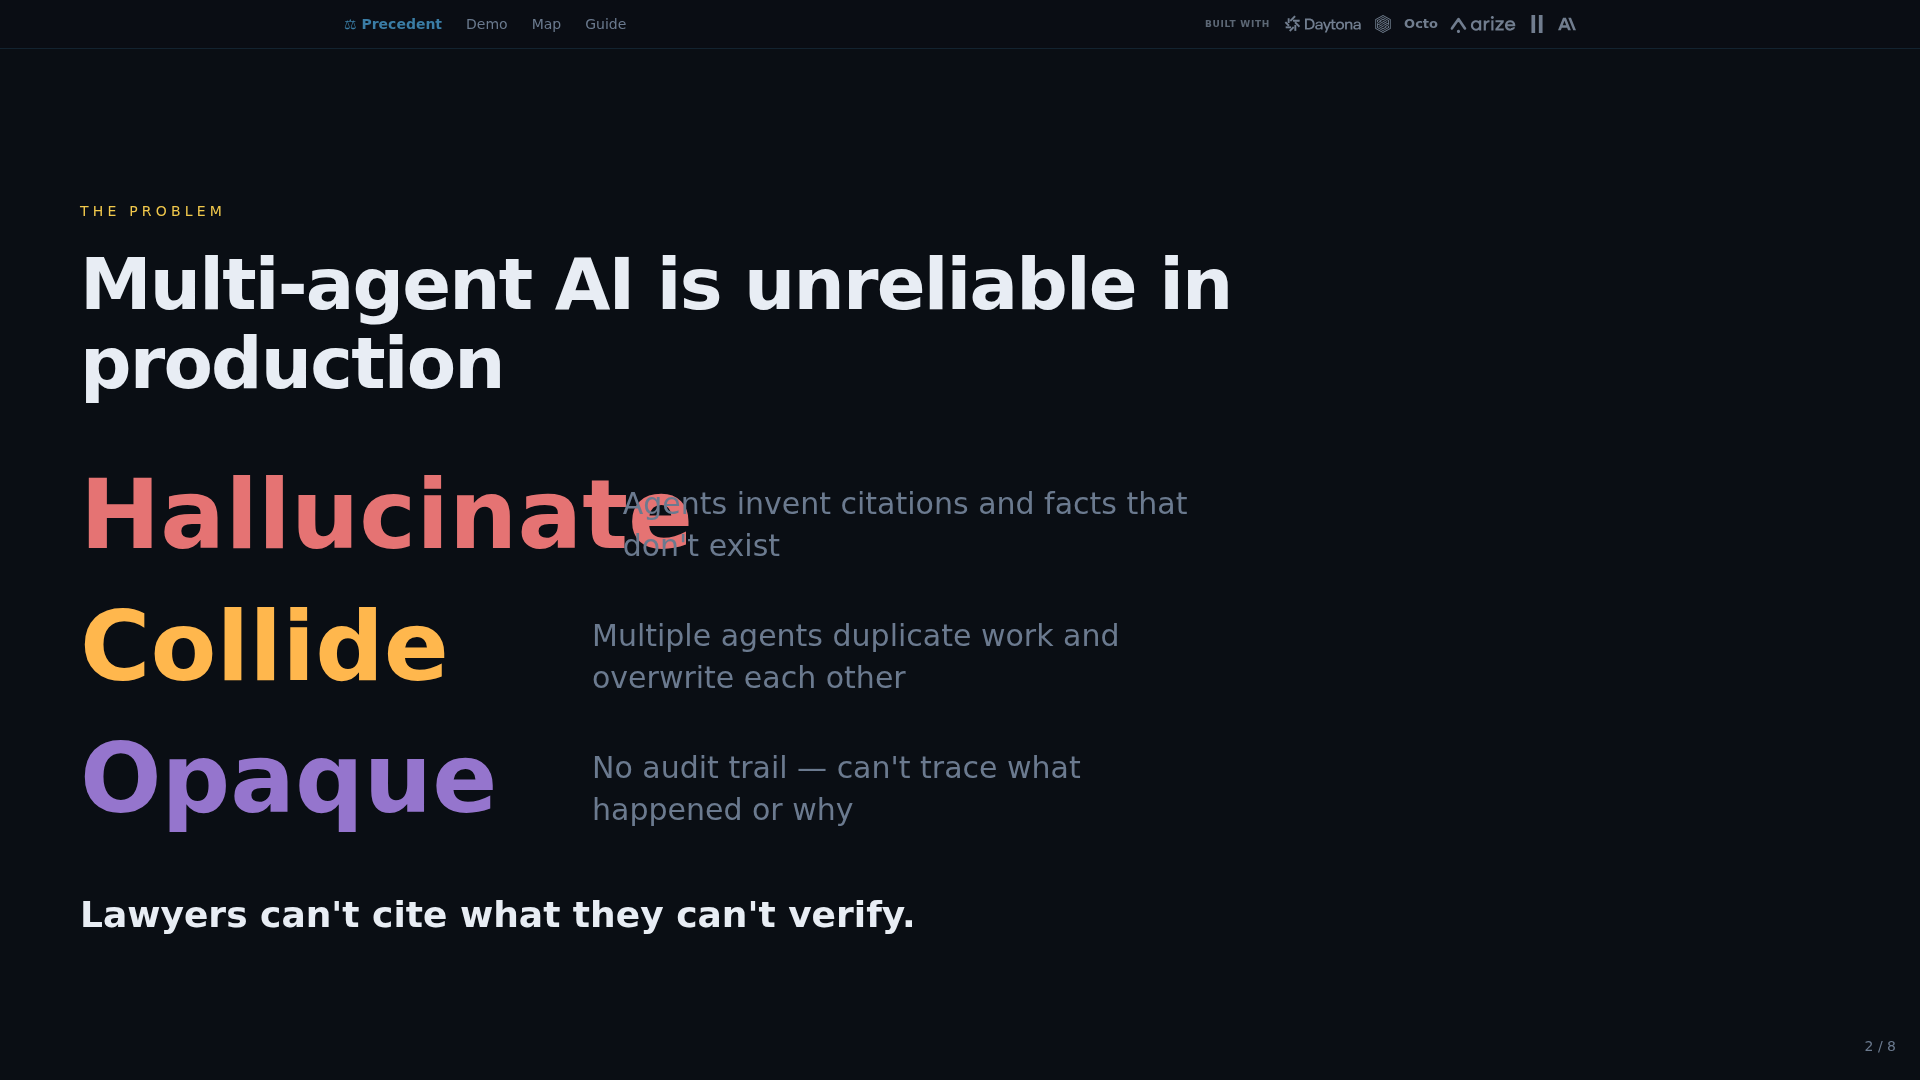
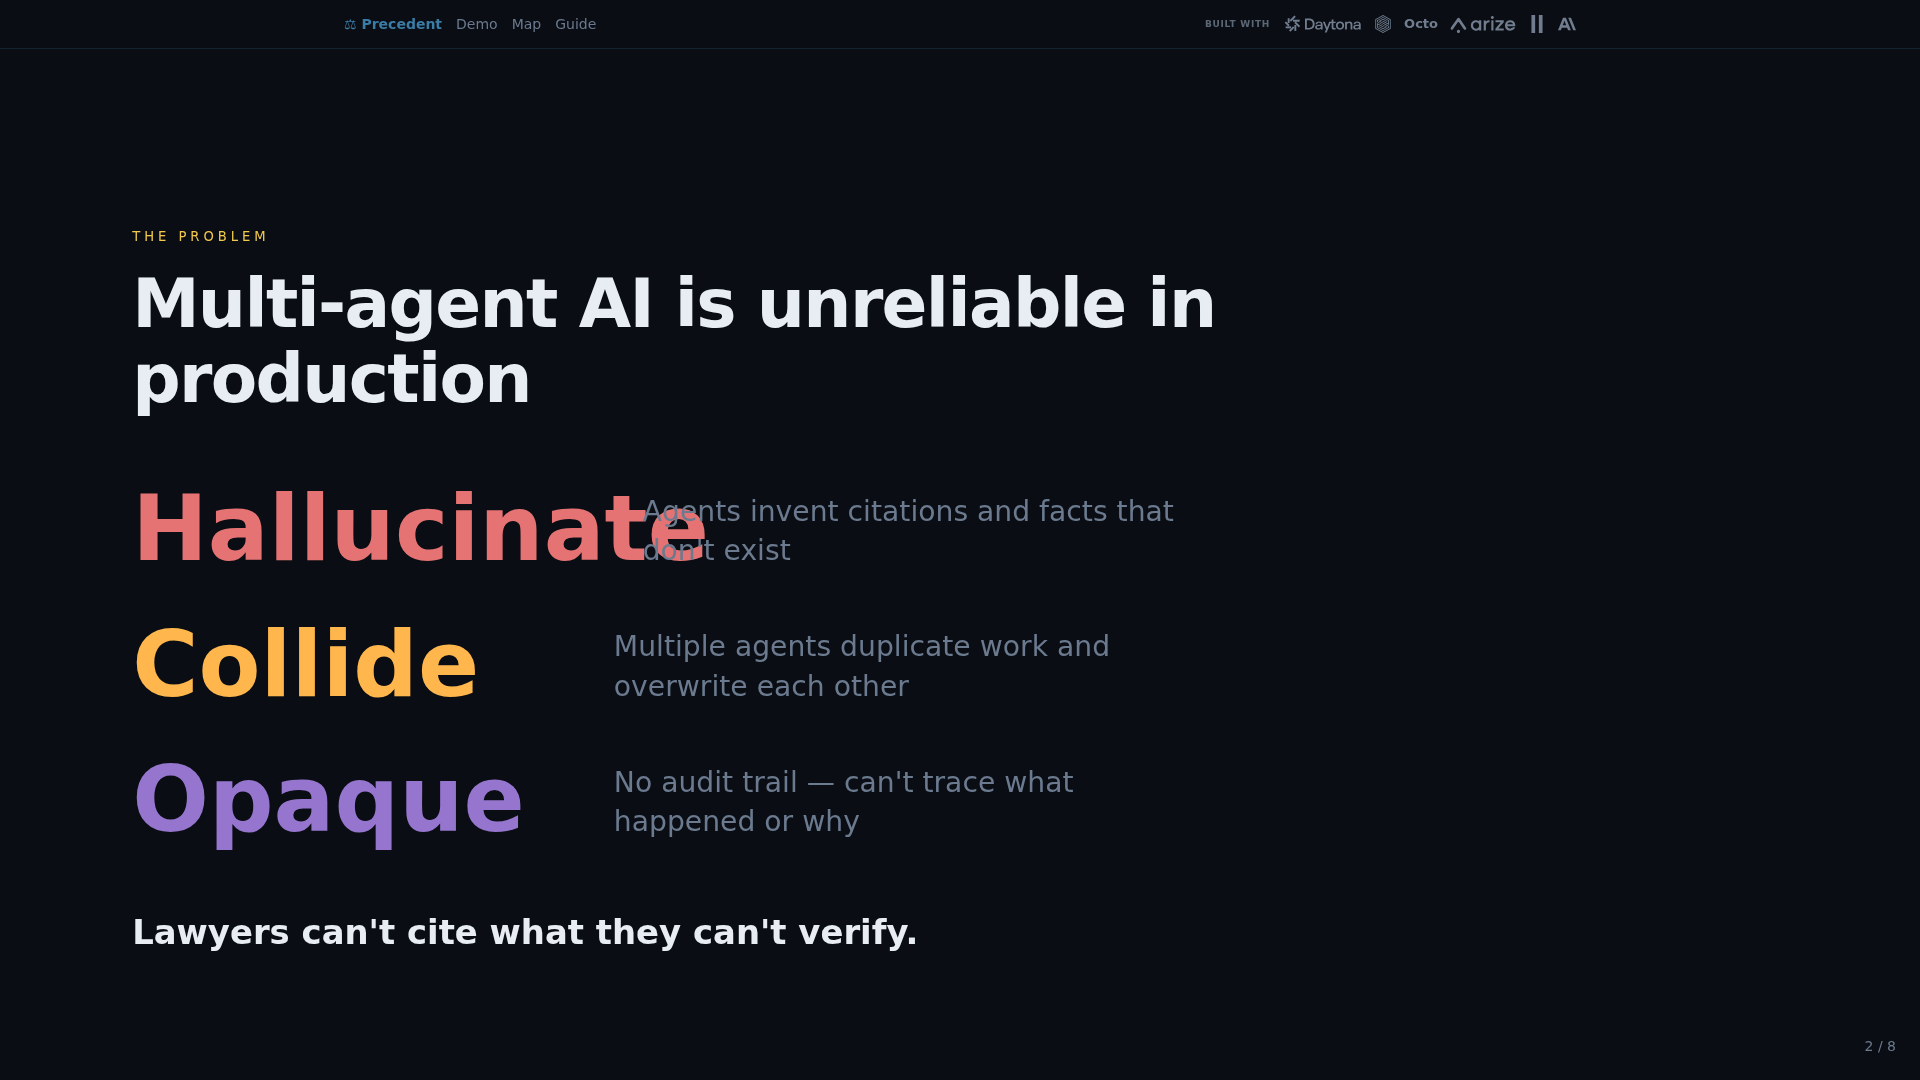
slides: fixed 1920x1080 stage scaled to fit viewport; visible site + GitHub links; refresh shots

diff --git a/static/slides.html b/static/slides.html
@@ -33,7 +33,7 @@ body {
 }
 
 .screenshot {
-  max-height: 70vh;
+  max-height: 756px;
   object-fit: contain;
   object-position: center;
   border-radius: 12px;
@@ -84,6 +84,14 @@ body {
 .fade-in {
   animation: fadeIn 0.6s ease-out forwards;
 }
+
+/* fixed 16:9 stage, scaled to fit (letterboxed) */
+html,body{height:100%;margin:0}
+#deck{position:fixed;left:0;top:0;width:1920px;height:1080px;transform-origin:0 0}
+#deck .slide{width:1920px;height:1080px;min-height:0!important;box-sizing:border-box;overflow:visible}
+#deck .slide>.min-h-screen{min-height:0!important;height:100%}
+#deck .slide *{line-height:normal}
+.site-link{color:#3A7CA5;text-decoration:underline;font-weight:700}
 </style>
 </head>
 <body class="overflow-hidden">
@@ -109,7 +117,7 @@ body {
     <div class="text-5xl font-semibold mb-4" style="color: var(--ink); max-width: 1200px; line-height: 1.2;">A reliable pipeline for multi-agent AI.</div>
     <div class="text-4xl" style="color: var(--muted); max-width: 1200px; line-height: 1.3;">First up: legal research for professionals.</div>
   </div>
-  <div class="absolute z-20 text-center" style="right:48px;bottom:48px;background:#fff;border-radius:14px;padding:10px 10px 8px;"><img src="/static/vendor/qr_demo.svg" alt="QR code" style="width:150px;height:150px;display:block"><div style="color:#0A0E14;font-weight:700;font-size:14px;margin-top:4px">Scan to try Precedent</div><div style="color:#0A0E14;font-size:12px">arize.design-bakery.com</div></div>
+  <div class="absolute z-20 text-center" style="right:48px;bottom:48px;background:#fff;border-radius:14px;padding:10px 10px 8px;"><img src="/static/vendor/qr_demo.svg" alt="QR code" style="width:150px;height:150px;display:block"><div style="color:#0A0E14;font-weight:700;font-size:14px;margin-top:4px">Scan to try Precedent</div><a class="site-link" href="https://arize.design-bakery.com" style="font-size:16px;display:block">arize.design-bakery.com</a></div>
 </section>
 
 <!-- Slide 2: The Problem -->
@@ -143,7 +151,7 @@ body {
   <h1 class="text-7xl font-bold mb-12 tracking-tight" style="color: var(--ink); max-width: 1400px; line-height: 1.1;">Ask. Get a cited memo. Tour it on the map. Hear it.</h1>
   
   <div class="flex items-center justify-center">
-    <img src="/static/slides/answer_v2.png" class="screenshot" style="max-height:56vh;width:auto" alt="Precedent answer interface" onerror="this.style.display='none'">
+    <img src="/static/slides/answer_v2.png" class="screenshot" style="max-height:600px;width:auto" alt="Precedent answer interface" onerror="this.style.display='none'">
   </div>
   
   <div class="mt-8 text-2xl text-center" style="color: var(--muted);">Cited memo · county map tour · voice in and out · for legal professionals</div>
@@ -155,7 +163,7 @@ body {
   <h1 class="text-7xl font-bold mb-12 tracking-tight" style="color: var(--ink); max-width: 1400px; line-height: 1.1;">Watch the agents walk the map</h1>
   
   <div class="flex items-center justify-center">
-    <img src="/static/slides/map_tour_v2.png" class="screenshot" style="max-height:50vh;width:auto" alt="Live map visualization" onerror="this.style.display='none'">
+    <img src="/static/slides/map_tour_v2.png" class="screenshot" style="max-height:540px;width:auto" alt="Live map visualization" onerror="this.style.display='none'">
   </div>
   
   <div class="mt-8 max-w-4xl mx-auto">
@@ -314,14 +322,14 @@ body {
 
 <!-- Slide 8: Thank You -->
 <section class="slide min-h-screen flex-col justify-center items-center px-20 pt-14 text-center">
-  <div class="text-9xl font-black mb-12" style="color: var(--ink);">Thank you</div>
+  <div class="text-9xl font-black mb-8" style="color: var(--ink);">Thank you</div>
   
-  <div class="text-4xl mb-10" style="color: var(--muted); max-width: 1000px; line-height: 1.4;">
+  <div class="text-4xl mb-8" style="color: var(--muted); max-width: 1000px; line-height: 1.4;">
     A reliable pipeline for multi-agent AI — built today at Daytona HackSprint NYC
   </div>
   
   <div class="flex items-center gap-16">
-  <div class="text-center" style="background:#fff;border-radius:20px;padding:18px 18px 12px;"><img src="/static/vendor/qr_demo.svg" alt="QR code to the live demo" style="width:min(340px,32vh);height:min(340px,32vh);display:block"><div style="color:#0A0E14;font-weight:800;font-size:24px;margin-top:6px">Scan to try Precedent</div><div style="color:#0A0E14;font-size:20px">https://arize.design-bakery.com</div></div>
+  <div class="text-center" style="background:#fff;border-radius:20px;padding:18px 18px 12px;"><img src="/static/vendor/qr_demo.svg" alt="QR code to the live demo" style="width:300px;height:300px;display:block"><div style="color:#0A0E14;font-weight:800;font-size:24px;margin-top:6px">Scan to try Precedent</div><a class="site-link" href="https://arize.design-bakery.com" style="font-size:24px;display:block">arize.design-bakery.com</a><a class="site-link" href="https://github.com/Pukujan/arize-ai-hackersprint" style="font-size:18px;display:block;margin-top:4px">github.com/Pukujan/arize-ai-hackersprint</a></div>
   <div class="flex flex-col gap-6 items-center">
     <a href="/" class="inline-block text-3xl px-12 py-6 rounded-2xl font-bold transition-all" style="background: var(--primary); color: var(--ink);" onmouseover="this.style.background='var(--accent)'; this.style.color='var(--bg)'" onmouseout="this.style.background='var(--primary)'; this.style.color='var(--ink)'">
       Open live demo →
@@ -338,7 +346,7 @@ body {
   </div>
   </div>
   
-  <div class="mt-16 text-xl" style="color: var(--muted);">
+  <div class="mt-8 text-xl" style="color: var(--muted);">
     Daytona HackSprint NYC · 2026
   </div>
 </section>
@@ -400,6 +408,9 @@ addEventListener('click', (e) => {
 
 // Initialize
 goToSlide(0);
+function fitDeck(){const d=document.getElementById('deck');const top=48,pad=8;const W=innerWidth-2*pad,H=innerHeight-top-2*pad;const k=Math.min(W/1920,H/1080);d.style.transform=`translate(${(innerWidth-1920*k)/2}px,${top+pad+(H-1080*k)/2}px) scale(${k})`;}
+addEventListener('resize',fitDeck);fitDeck();
+
 </script>
 
 <script src="/static/partners.js"></script><script src="/static/navbar.js"></script></body>
